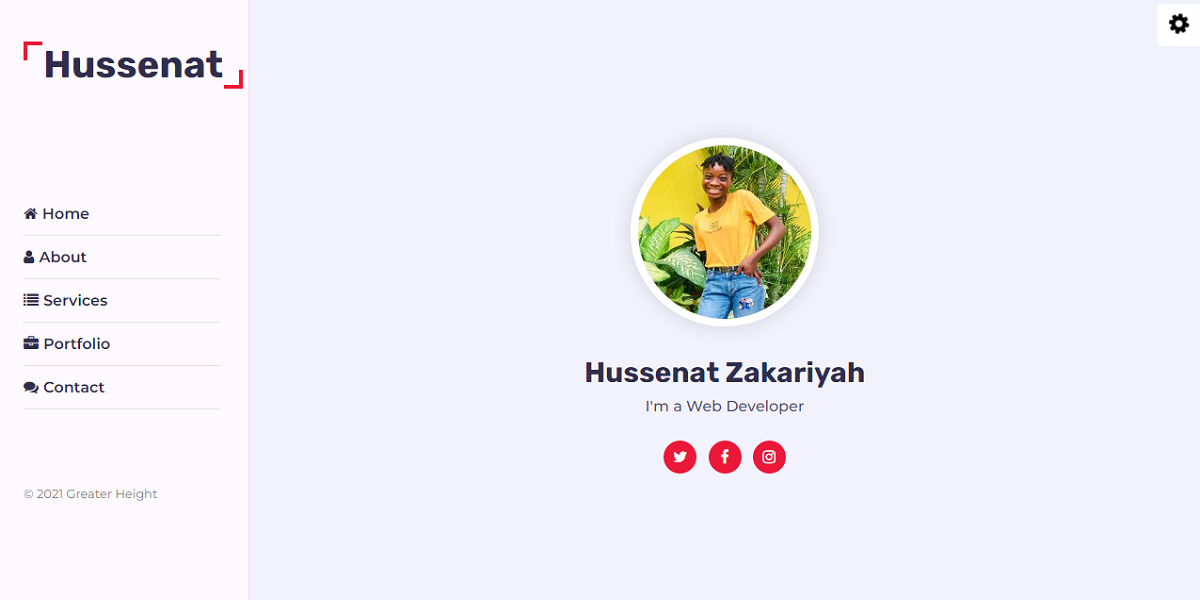
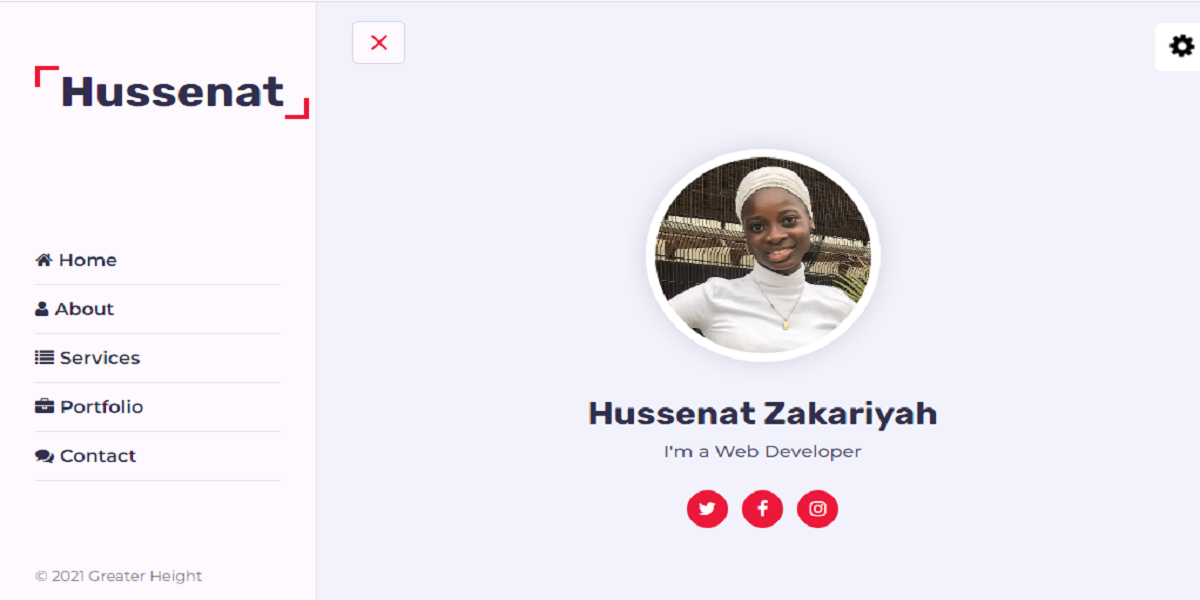
rebranding my portfolio

diff --git a/index.html b/index.html
@@ -98,7 +98,7 @@
                 <!-- data-section-index="0" because its section 0 -->
                 <div class="container">
                     <div class="intro">
-                        <img src="images/about.jpg" alt="profile" class="shadow-dark" />
+                        <img src="images/about.png" alt="profile" class="shadow-dark" />
                         <h1>Hussenat Zakariyah</h1>
                         <p>I'm a Web Developer</p>
                         <div class="social-links">
@@ -127,7 +127,7 @@
                                 <div class="about-text padd-15">
                                     <h3>I'm Hussenat Zakariyah and <span>Web Developer</span></h3>
                                     <p>Hi! my name is Hussenat Zakariyah. I am a Web Developer, and I'm 
-                                        very passionate and dedicated to my work. With 3 years 
+                                        very passionate and dedicated to my work. With 1 year and 3 months
                                         experience as a professional Web Developer, I have acquired 
                                         the skills and knowledge necessary to make your project a 
                                         success. I enjoy every step of the design process from 
@@ -147,13 +147,10 @@
                                             <p>Age: <span>18</span></p>
                                         </div>
                                         <div class="info-item padd-15">
-                                            <p>Website: <span>www.domain.com</span></p>
-                                        </div>
-                                        <div class="info-item padd-15">
                                             <p>Email: <span>zakariyahhussenat@gmail.com</span></p>
                                         </div>
                                         <div class="info-item padd-15">
-                                            <p>Degree: <span>S.Cert</span></p>
+                                            <p>Degree: <br /> <span>S.Cert</span></p>
                                         </div>
                                         <div class="info-item padd-15">
                                             <p>Phone: <span>+234 805 2204 600</span></p>
@@ -161,9 +158,7 @@
                                         <div class="info-item padd-15">
                                             <p>City: <span>Lagos Island</span></p>
                                         </div>
-                                        <div class="info-item padd-15">
-                                            <p>Freelance: <span>Available</span></p>
-                                        </div>
+                                        
                                     </div>
 
                                     <div class="row">
@@ -237,11 +232,37 @@
                                                 <div class="timeline-item">
                                                     <div class="circle-dot"></div>
                                                     <h6 class="timeline-date">
-                                                        <i class="fa fa-calendar"></i>2019-2022
+                                                        <i class="fa fa-calendar"></i>2020-2022
                                                     </h6>
                                                     <h4 class="timeline-title">Backend and Frontend Developer</h4>
                                                     <p class="timeline-text">
-                                                        Working as an intern in Greater Heights Institutes
+                                                        Works as a student in Greater Heights Institutes
+                                                    </p>
+                                                </div>
+                                                <!-- timeline item end -->
+
+                                                <!-- timeline item start -->
+                                                <div class="timeline-item">
+                                                    <div class="circle-dot"></div>
+                                                    <h6 class="timeline-date">
+                                                        <i class="fa fa-calendar"></i>2016-2019
+                                                    </h6>
+                                                    <h4 class="timeline-title">Desktop Publishing and Graphic Designing</h4>
+                                                    <p class="timeline-text">
+                                                        Worked as an intern in Greater Heights Institutes
+                                                    </p>
+                                                </div>
+                                                <!-- timeline item end -->
+
+                                                <!-- timeline item start -->
+                                                <div class="timeline-item">
+                                                    <div class="circle-dot"></div>
+                                                    <h6 class="timeline-date">
+                                                        <i class="fa fa-calendar"></i>2019-present
+                                                    </h6>
+                                                    <h4 class="timeline-title">The yellow Chilli Restaurant and Bar</h4>
+                                                    <p class="timeline-text">
+                                                        Works as a cook
                                                     </p>
                                                 </div>
                                                 <!-- timeline item end -->
@@ -365,7 +386,7 @@
                                     <img src="images/portfolio/3.png" alt="portfolio" />
                                 </div>
                                 <div class="portfolio-info">
-                                    <h4>Web Design</h4>
+                                    <h4>Javascript</h4>
                                     <div class="icon">
                                         <a href="https://jsamazona01022022.herokuapp.com" target="_blank"><i class="fa fa-link"></i></a>
                                     </div>
@@ -404,7 +425,7 @@
                         </div>
                         <!-- Portfolio Item End -->
                         <!-- Portfolio Item Start -->
-                        <div class="portfolio-item padd-15" data-category="react">
+                        <div class="portfolio-item padd-15" data-category="web-design">
                             <div class="portfolio-item-inner shadow-dark">
                                 <div class="portfolio-img">
                                     <img src="images/portfolio/6.png" alt="portfolio" />
@@ -413,6 +434,51 @@
                                     <h4>Javascript</h4>
                                     <div class="icon">
                                         <a href="https://zakariyah-notes-app.netlify.app/" target="_blank"><i class="fa fa-link"></i></a>
+                                    </div>
+                                </div>
+                            </div>
+                        </div>
+                        <!-- Portfolio Item End -->
+                        <!-- Portfolio Item Start -->
+                        <div class="portfolio-item padd-15" data-category="web-design">
+                            <div class="portfolio-item-inner shadow-dark">
+                                <div class="portfolio-img">
+                                    <img src="images/portfolio/7.png" alt="portfolio" />
+                                </div>
+                                <div class="portfolio-info">
+                                    <h4>Html & Css</h4>
+                                    <div class="icon">
+                                        <a href="https://zakariyah-notes-app.netlify.app/" target="_blank"><i class="fa fa-link"></i></a>
+                                    </div>
+                                </div>
+                            </div>
+                        </div>
+                        <!-- Portfolio Item End -->
+                        <!-- Portfolio Item Start -->
+                        <div class="portfolio-item padd-15" data-category="web-design">
+                            <div class="portfolio-item-inner shadow-dark">
+                                <div class="portfolio-img">
+                                    <img src="images/portfolio/8.png" alt="portfolio" />
+                                </div>
+                                <div class="portfolio-info">
+                                    <h4>Html & Css</h4>
+                                    <div class="icon">
+                                        <a href="https://zakariyah-notes-app.netlify.app/" target="_blank"><i class="fa fa-link"></i></a>
+                                    </div>
+                                </div>
+                            </div>
+                        </div>
+                        <!-- Portfolio Item End -->
+                        <!-- Portfolio Item Start -->
+                        <div class="portfolio-item padd-15" data-category="react">
+                            <div class="portfolio-item-inner shadow-dark">
+                                <div class="portfolio-img">
+                                    <img src="images/portfolio/9.png" alt="portfolio" />
+                                </div>
+                                <div class="portfolio-info">
+                                    <h4>React Hook</h4>
+                                    <div class="icon">
+                                        <a href="https://food-blogapp072022.netlify.app" target="_blank"><i class="fa fa-link"></i></a>
                                     </div>
                                 </div>
                             </div>
